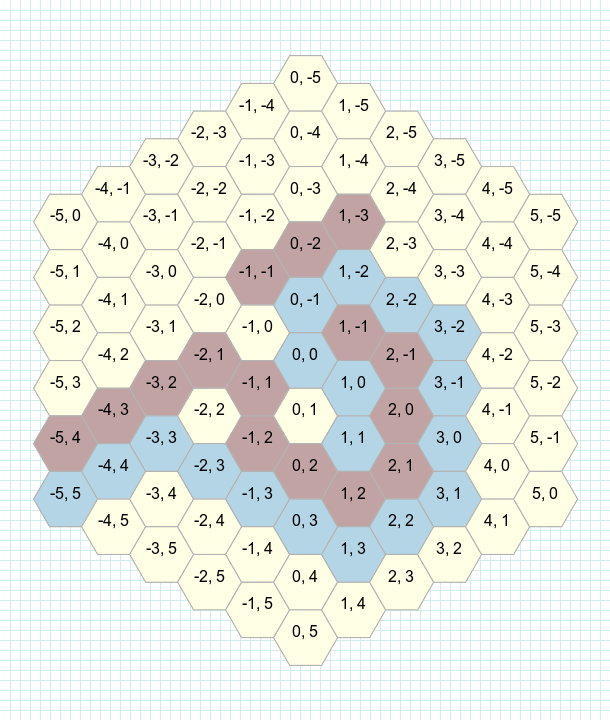
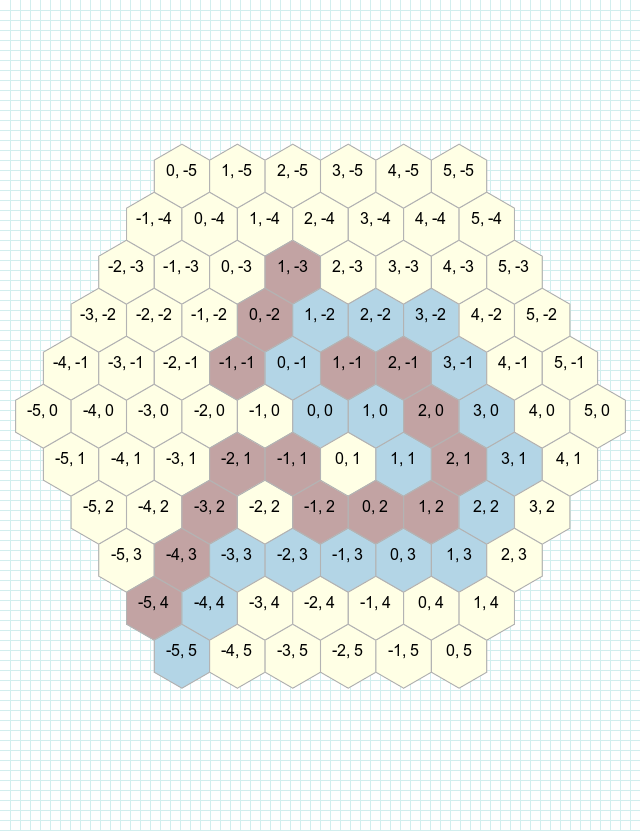
fix pointy topped orientation

diff --git a/lib/rhex/decorators/pointy_topped_hex.rb b/lib/rhex/decorators/pointy_topped_hex.rb
@@ -7,7 +7,7 @@ module Rhex
     class PointyToppedHex < SimpleDelegator
       Coordinates = Struct.new(:x, :y, keyword_init: true)
 
-      ANGLES = [0, 60, 120, 180, 240, 300].freeze
+      ANGLES = [30, 90, 150, 210, 270, 330].freeze
 
       def initialize(obj, size:)
         super(obj)
@@ -21,7 +21,7 @@ module Rhex
       end
 
       def height
-        size * 3.0 / 2.0
+        size * 2.0
       end
 
       def width
@@ -31,11 +31,11 @@ module Rhex
       private
 
       def absolute_coordinate_x
-        height * q
+        width * (q + r / 2.0)
       end
 
       def absolute_coordinate_y
-        width * (r + q / 2.0)
+        height * 3 / 4 * r
       end
     end
   end

diff --git a/lib/rhex/canvas_markups/auto_canvas_markup.rb b/lib/rhex/canvas_markups/auto_canvas_markup.rb
@@ -15,11 +15,11 @@ module Rhex
 
       def cols
         @cols ||=
-          top_left_corner.distance(top_right_corner) * central_hex.width + central_hex.width.ceil
+          top_left_corner.distance(top_right_corner) * central_hex.height
       end
 
       def rows
-        @rows ||= top_left_corner.distance(bottom_left_corner) * central_hex.height
+        @rows ||= top_left_corner.distance(bottom_left_corner) * central_hex.width
       end
 
       def center

diff --git a/lib/rhex/decorators/flat_topped_hex.rb b/lib/rhex/decorators/flat_topped_hex.rb
@@ -21,21 +21,21 @@ module Rhex
       end
 
       def height
-        size * 3.0 / 2.0
+        size * Math.sqrt(3)
       end
 
       def width
-        size * Math.sqrt(3)
+        size * 2.0
       end
 
       private
 
       def absolute_coordinate_x
-        height * q
+        width * 3 / 4 * r
       end
 
       def absolute_coordinate_y
-        width * (r + q / 2.0)
+        height * (q + r / 2.0)
       end
     end
   end

diff --git a/spec/lib/rhex/dijkstra_shortest_path_spec.rb b/spec/lib/rhex/dijkstra_shortest_path_spec.rb
@@ -52,7 +52,7 @@ RSpec.describe Rhex::DijkstraShortestPath do
 
         grid.merge(obstacles)
             .merge(expected_shortest_path)
-            .to_pic('dijkstra_shortest_path')
+            .to_pic('dijkstra_shortest_path', orientation: :pointy_topped)
 
         expect(shortest_path).to contain_exactly(*expected_shortest_path)
       end
